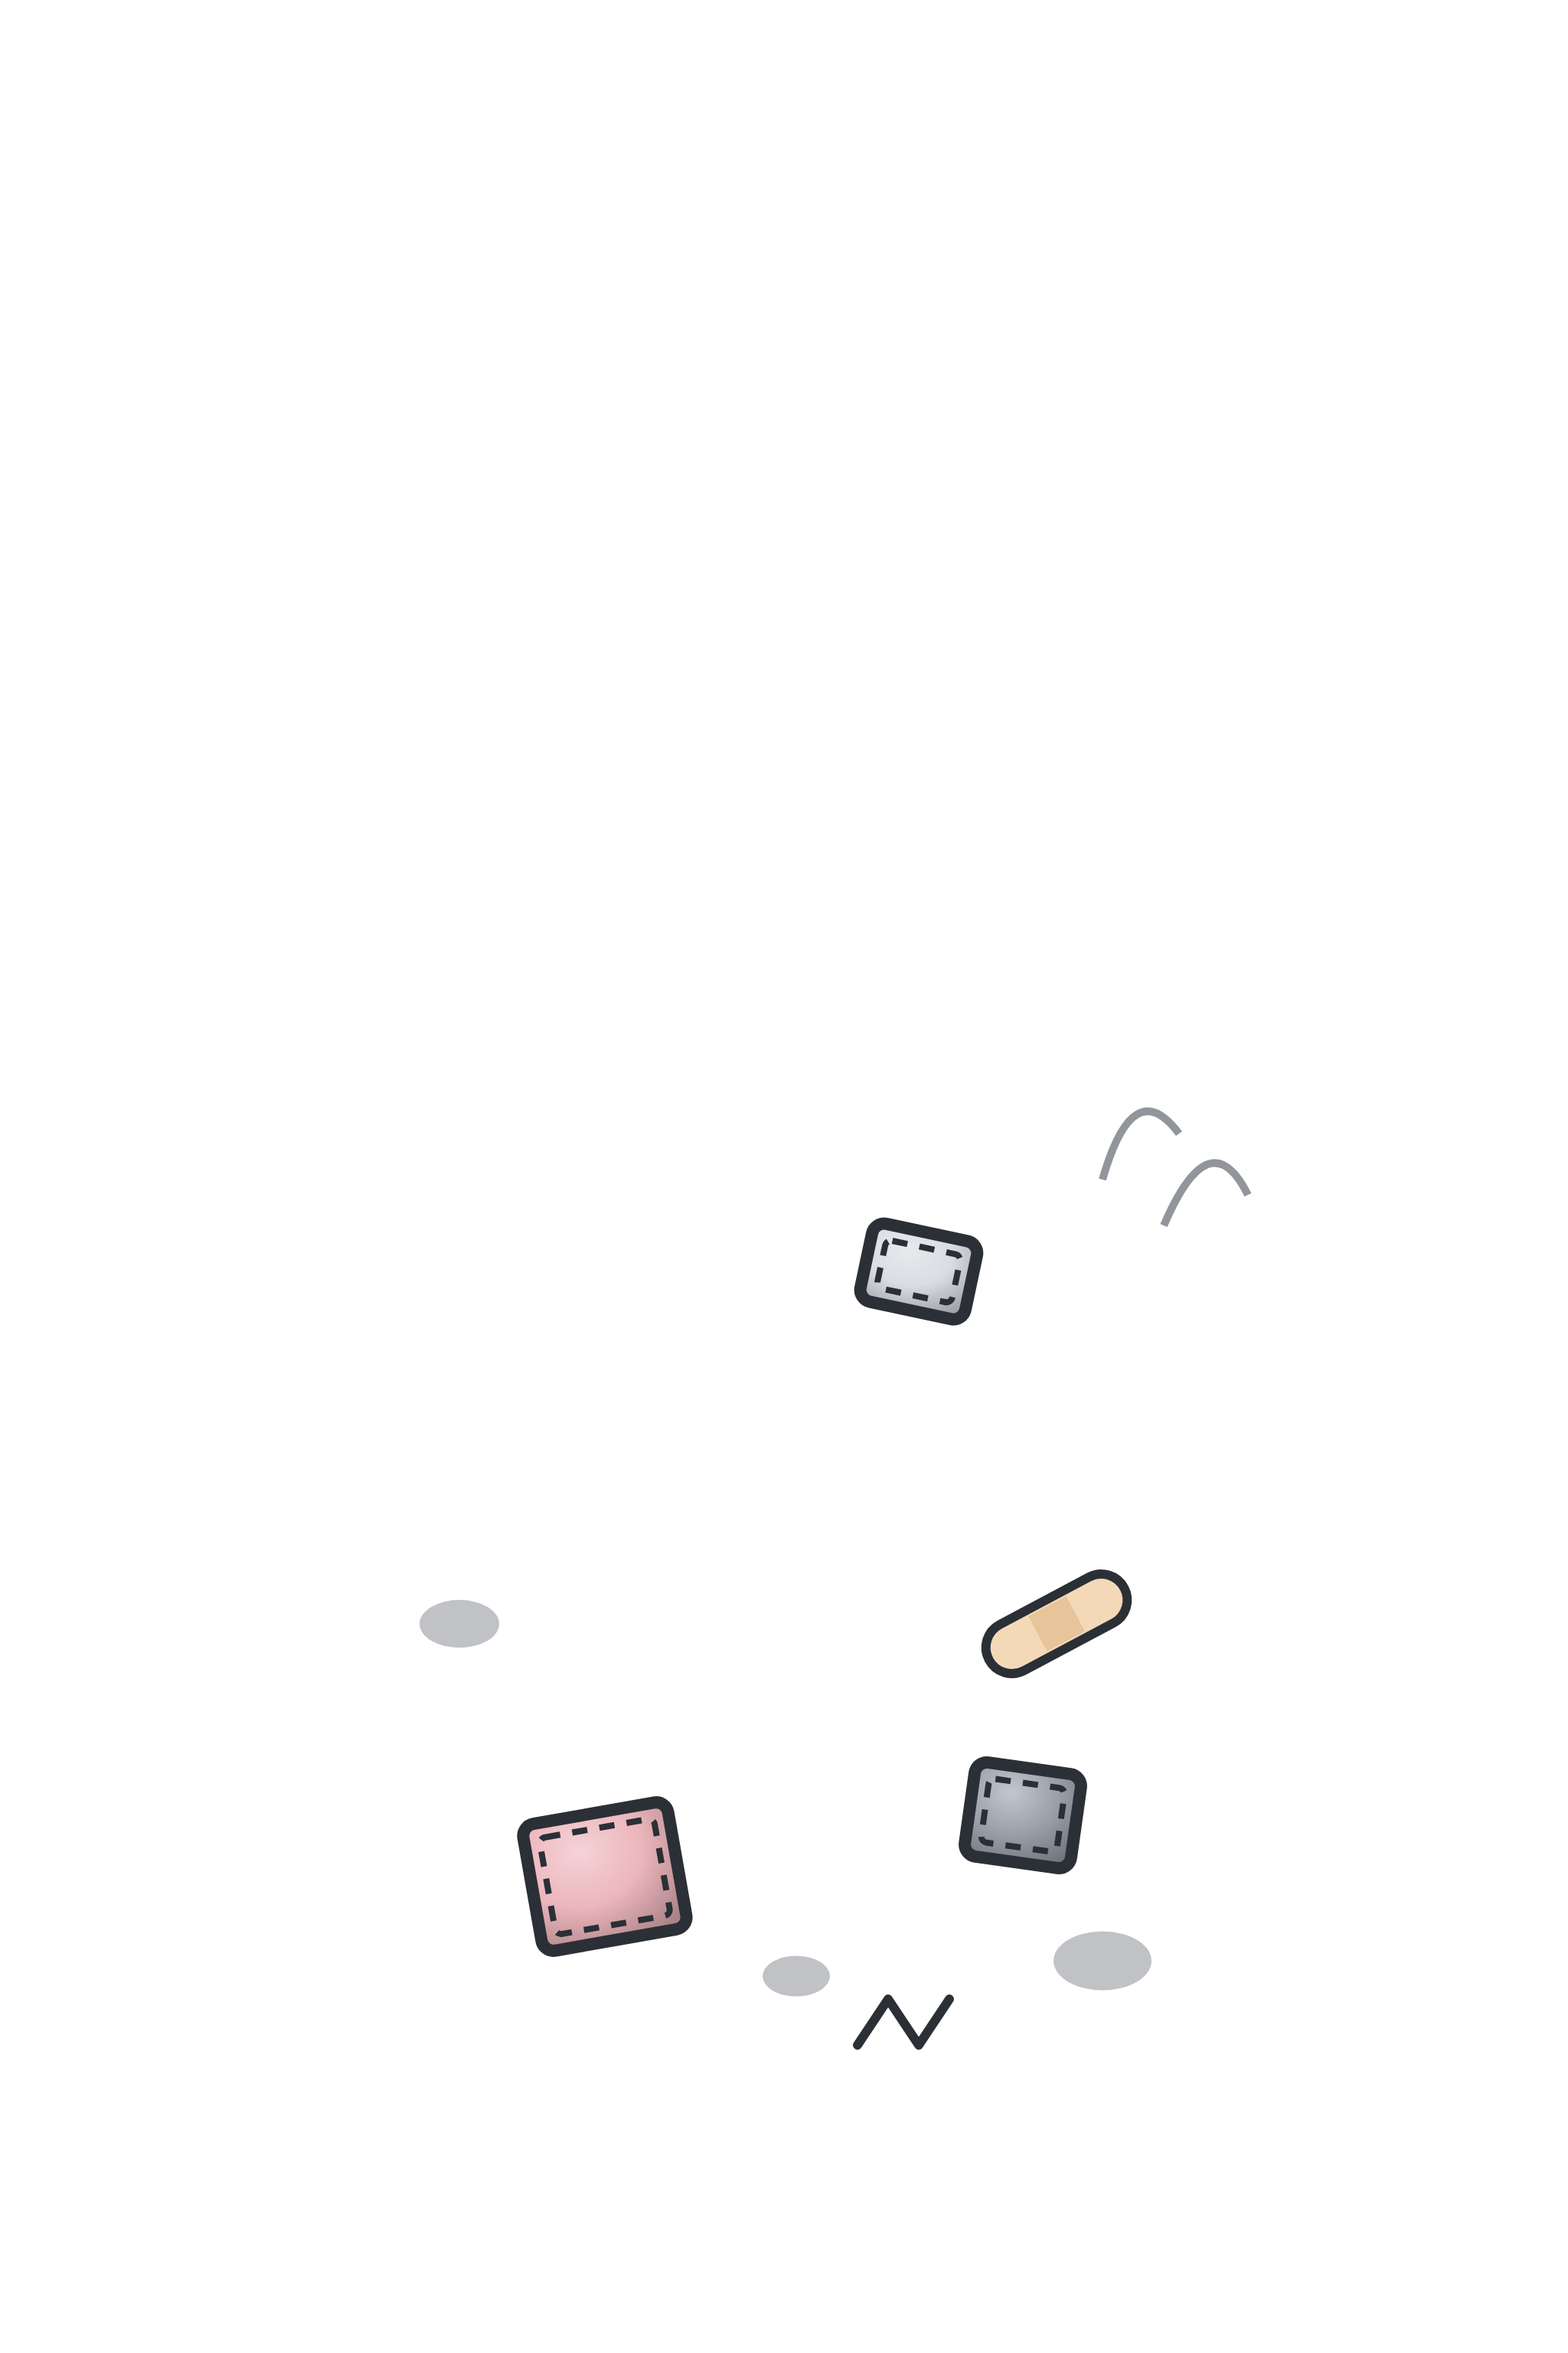
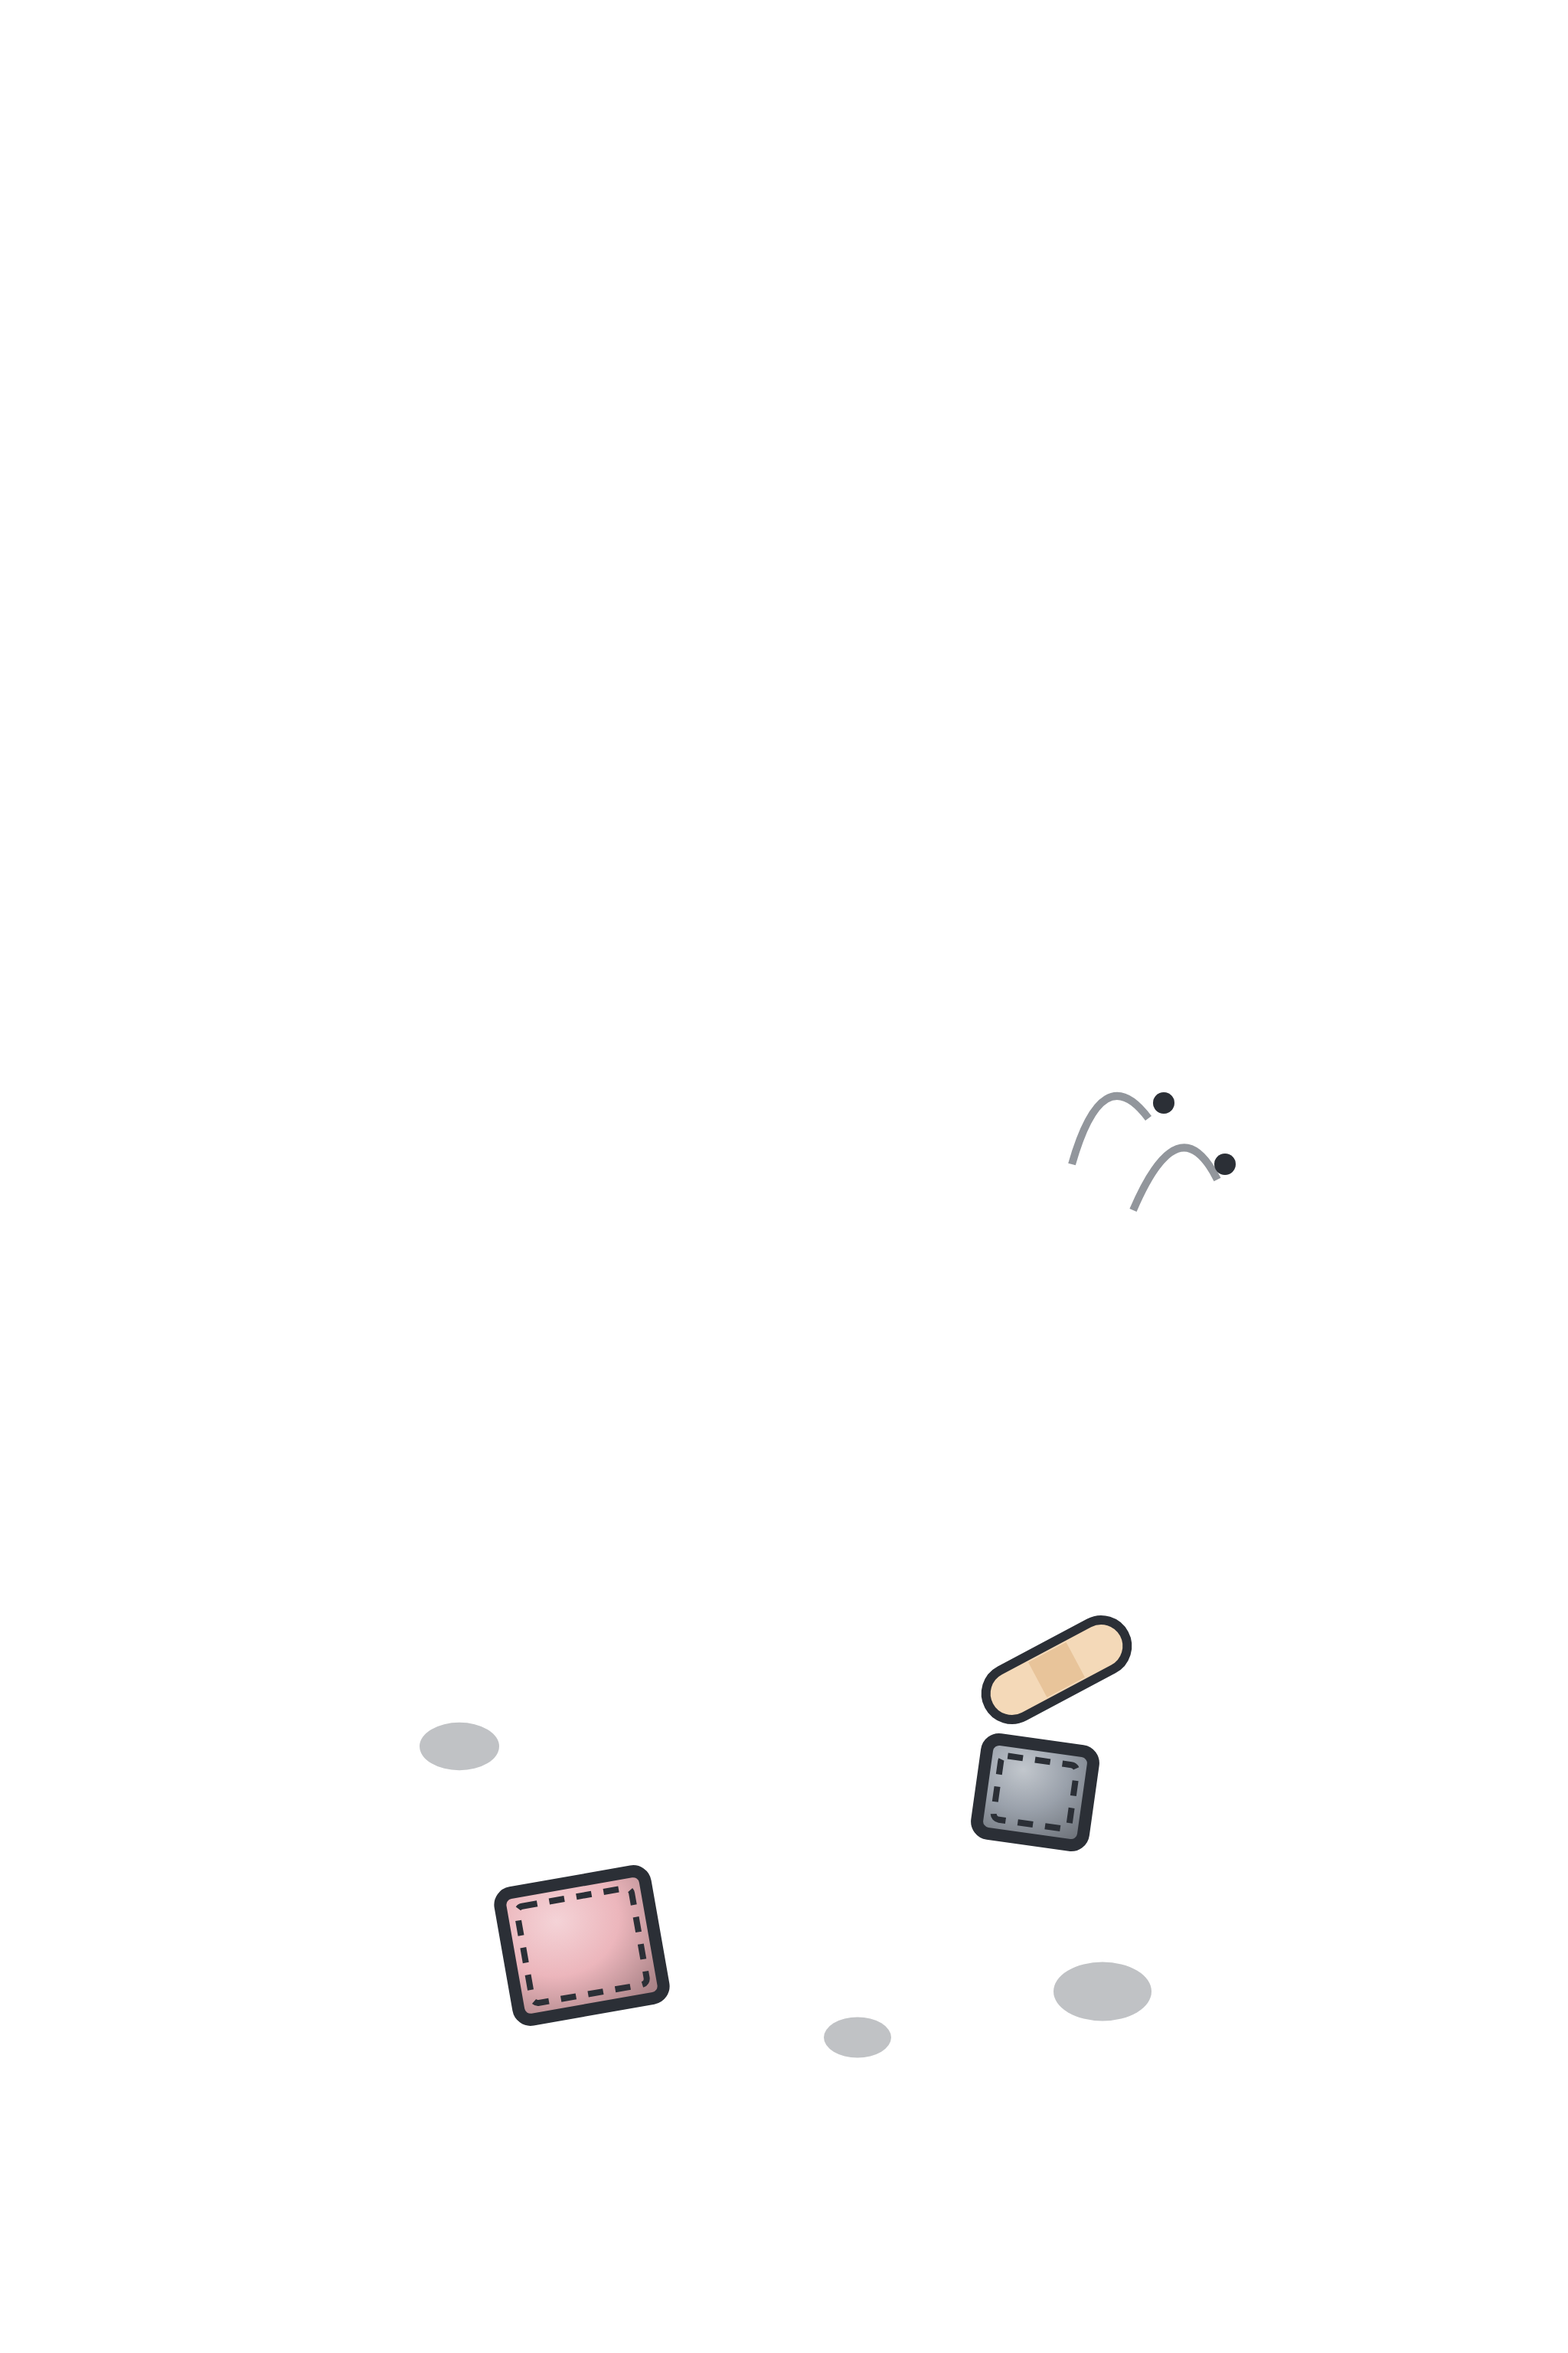
Redraw costumes for the bird figures
Claude-Session: https://claude.ai/code/session_01KeG575NLoePyzqyrJdTrKr

diff --git a/design/faceless_comparison/generate.py b/design/faceless_comparison/generate.py
@@ -826,22 +826,23 @@ def sparkle(s, x, y, r):
 
 
 def costume_rich_a():
+    """Rich: tilted crown next to the crest, monocle, gold chain."""
     s = Svg(1024, 1536)
-    s.add('<g transform="rotate(14 600 300)">')
-    s.path("M520,330 L530,230 L572,280 L600,210 L628,280 L670,230 L680,330 Z", s.ball(GOLD))
-    s.add('<rect x="516" y="320" width="168" height="30" rx="10" fill="%s" stroke="%s" stroke-width="%d"/>' % (s.ball(GOLD), OUT, SW))
-    for x in (556, 600, 644):
-        s.add('<circle cx="%d" cy="335" r="9" fill="%s"/>' % (x, BLUE["light"]))
+    s.add('<g transform="rotate(16 610 420)">')
+    s.path("M545,440 L553,350 L588,392 L612,330 L636,392 L671,350 L679,440 Z", s.ball(GOLD))
+    s.add('<rect x="541" y="430" width="142" height="28" rx="10" fill="%s" stroke="%s" stroke-width="%d"/>' % (s.ball(GOLD), OUT, SW))
+    for x in (576, 612, 648):
+        s.add('<circle cx="%d" cy="444" r="8" fill="%s"/>' % (x, BLUE["light"]))
     s.add('</g>')
-    s.add('<circle cx="569" cy="600" r="58" fill="#FFF" fill-opacity="0.12" stroke="%s" stroke-width="16"/>' % OUT)
-    s.add('<circle cx="569" cy="600" r="58" fill="none" stroke="%s" stroke-width="8"/>' % GOLD)
-    s.line("M612,640 Q640,720 620,800", 4, GOLD)
-    s.tube("M410,836 Q512,980 614,836", 12, GOLD)
-    s.add('<circle cx="512" cy="950" r="42" fill="%s" stroke="%s" stroke-width="%d"/>' % (s.ball(GOLD), OUT, SW))
-    s.add('<circle cx="512" cy="950" r="20" fill="none" stroke="#FFF" stroke-width="6" opacity="0.8"/>')
-    sparkle(s, 720, 230, 26)
-    sparkle(s, 470, 260, 16)
-    sparkle(s, 580, 990, 18)
+    s.add('<circle cx="574" cy="620" r="62" fill="#FFF" fill-opacity="0.12" stroke="%s" stroke-width="16"/>' % OUT)
+    s.add('<circle cx="574" cy="620" r="62" fill="none" stroke="%s" stroke-width="8"/>' % GOLD)
+    s.line("M630,650 Q664,720 650,800", 4, GOLD)
+    s.tube("M400,800 Q512,920 624,800", 12, GOLD)
+    s.add('<circle cx="512" cy="895" r="40" fill="%s" stroke="%s" stroke-width="%d"/>' % (s.ball(GOLD), OUT, SW))
+    s.add('<circle cx="512" cy="895" r="18" fill="none" stroke="#FFF" stroke-width="6" opacity="0.8"/>')
+    sparkle(s, 720, 330, 26)
+    sparkle(s, 410, 400, 16)
+    sparkle(s, 575, 940, 18)
     return s
 
 
@@ -853,17 +854,18 @@ def patch(s, x, y, w, h, rot, fill):
 
 
 def costume_poor_b():
+    """Poor: patches, band-aid, dirt, a bent crest feather and flies."""
     s = Svg(1024, 1536)
-    patch(s, 600, 830, 70, 52, 12, G3)
-    patch(s, 395, 1225, 96, 84, -10, mix(RED["light"], G3, 0.5))
-    patch(s, 668, 1185, 70, 62, 8, G4)
-    s.add('<g transform="rotate(-28 690 1060)"><rect x="640" y="1043" width="100" height="34" rx="17" fill="#F4D9B8" stroke="%s" stroke-width="6"/>'
-          '<rect x="676" y="1047" width="28" height="26" fill="#E8C49A"/></g>' % OUT)
-    for x, y, r in ((300, 1060, 26), (720, 1280, 32), (520, 1290, 22)):
+    patch(s, 380, 1270, 96, 84, -10, mix(RED["light"], G3, 0.5))
+    patch(s, 676, 1170, 70, 62, 8, G4)
+    s.add('<g transform="rotate(-28 690 1090)"><rect x="640" y="1073" width="100" height="34" rx="17" fill="#F4D9B8" stroke="%s" stroke-width="6"/>'
+          '<rect x="676" y="1077" width="28" height="26" fill="#E8C49A"/></g>' % OUT)
+    for x, y, r in ((300, 1140, 26), (720, 1300, 32), (560, 1330, 22)):
         s.add('<ellipse cx="%d" cy="%d" rx="%d" ry="%g" fill="%s" opacity="0.35"/>' % (x, y, r, r * 0.6, G5))
-    s.line("M560,1335 L580,1305 L600,1335 L620,1305", 6)
-    s.add('<path d="M720,770 Q740,700 770,740" fill="none" stroke="%s" stroke-width="5" opacity="0.6"/>' % G5)
-    s.add('<path d="M760,800 Q790,730 815,780" fill="none" stroke="%s" stroke-width="5" opacity="0.6"/>' % G5)
+    s.add('<path d="M700,760 Q720,690 750,730" fill="none" stroke="%s" stroke-width="5" opacity="0.6"/>' % G5)
+    s.add('<path d="M740,790 Q770,720 795,770" fill="none" stroke="%s" stroke-width="5" opacity="0.6"/>' % G5)
+    for x, y in ((760, 720), (800, 760)):
+        s.add('<circle cx="%d" cy="%d" r="7" fill="%s"/>' % (x, y, OUT))
     return s
 
 
@@ -889,43 +891,43 @@ def sneakers(s, c, shoes):
 
 def costume_sport_a():
     s = Svg(1024, 1536)
-    s.path("M369,440 Q512,420 655,440 L658,486 Q512,466 366,486 Z", s.ball(WHITE))
-    s.add('<path d="M368,463 Q512,443 656,463" fill="none" stroke="%s" stroke-width="10"/>' % BLUE["base"])
-    emblem(s, PEAK, 512, 1080, 62, WHITE, BLUE["base"])
-    sneakers(s, BLUE, ((452, 1404, 54, 26), (572, 1404, 54, 26)))
+    s.path("M374,466 Q512,446 650,466 L654,508 Q512,488 370,508 Z", s.ball(WHITE))
+    s.add('<path d="M372,487 Q512,467 652,487" fill="none" stroke="%s" stroke-width="10"/>' % BLUE["base"])
+    emblem(s, PEAK, 512, 900, 58, WHITE, BLUE["base"])
+    sneakers(s, BLUE, ((462, 1396, 46, 22), (562, 1396, 46, 22)))
     return s
 
 
 def costume_sport_b():
     s = Svg(1024, 1536)
-    s.tube("M300,1170 Q512,1290 724,1170", 6, G1)
-    s.add('<rect x="482" y="1230" width="60" height="40" rx="14" fill="%s" stroke="%s" stroke-width="%d"/>' % (s.ball(G3), OUT, SW))
-    s.add('<circle cx="530" cy="1250" r="8" fill="%s"/>' % OUT)
-    emblem(s, WING, 515, 832, 72)
-    sneakers(s, RED, ((428, 1406, 66, 28), (596, 1406, 66, 28)))
+    s.tube("M320,1150 Q512,1280 704,1150", 6, G1)
+    s.add('<rect x="482" y="1220" width="60" height="40" rx="14" fill="%s" stroke="%s" stroke-width="%d"/>' % (s.ball(G3), OUT, SW))
+    s.add('<circle cx="530" cy="1240" r="8" fill="%s"/>' % OUT)
+    emblem(s, WING, 512, 1300, 60)
+    sneakers(s, RED, ((440, 1400, 56, 24), (584, 1400, 56, 24)))
     return s
 
 
 def costume_driver_a():
-    """Automatik: relaxed, sunglasses pushed up on the quiff."""
+    """Automatik: relaxed, sunglasses pushed up on the head."""
     s = Svg(1024, 1536)
-    s.add('<g transform="rotate(-6 512 400)">')
-    for x in (450, 574):
-        s.add('<rect x="%d" y="370" width="104" height="62" rx="28" fill="%s" stroke="%s" stroke-width="%d"/>' % (x - 52, s.ball("#3A3F47"), OUT, SW))
-        s.line("M%d,386 L%d,386" % (x - 30, x - 6), 6, "#FFF", 'opacity="0.6"')
-    s.line("M502,396 Q512,384 522,396", 10)
+    s.add('<g transform="rotate(-6 512 480)">')
+    for x in (455, 569):
+        s.add('<rect x="%d" y="452" width="100" height="58" rx="26" fill="%s" stroke="%s" stroke-width="%d"/>' % (x - 50, s.ball("#3A3F47"), OUT, SW))
+        s.line("M%d,468 L%d,468" % (x - 30, x - 6), 6, "#FFF", 'opacity="0.6"')
+    s.line("M505,478 Q512,466 519,478", 10)
     s.add('</g>')
     return s
 
 
 def costume_racer_b():
-    """Manuell: chequered flag patch on the cap."""
+    """Manuell: chequered flag stuck in next to the crest."""
     s = Svg(1024, 1536)
-    s.line("M470,880 L470,790", 6)
+    s.line("M600,860 L600,720", 8, G5)
     for i in range(3):
         for j in range(4):
-            s.add('<rect x="%d" y="%d" width="22" height="20" fill="%s"/>' % (470 + j * 22, 790 + i * 20, OUT if (i + j) % 2 else "#FFF"))
-    s.add('<rect x="470" y="790" width="88" height="60" fill="none" stroke="%s" stroke-width="5"/>' % OUT)
+            s.add('<rect x="%d" y="%d" width="22" height="20" fill="%s"/>' % (600 + j * 22, 720 + i * 20, OUT if (i + j) % 2 else "#FFF"))
+    s.add('<rect x="600" y="720" width="88" height="60" fill="none" stroke="%s" stroke-width="5"/>' % OUT)
     return s
 
 
